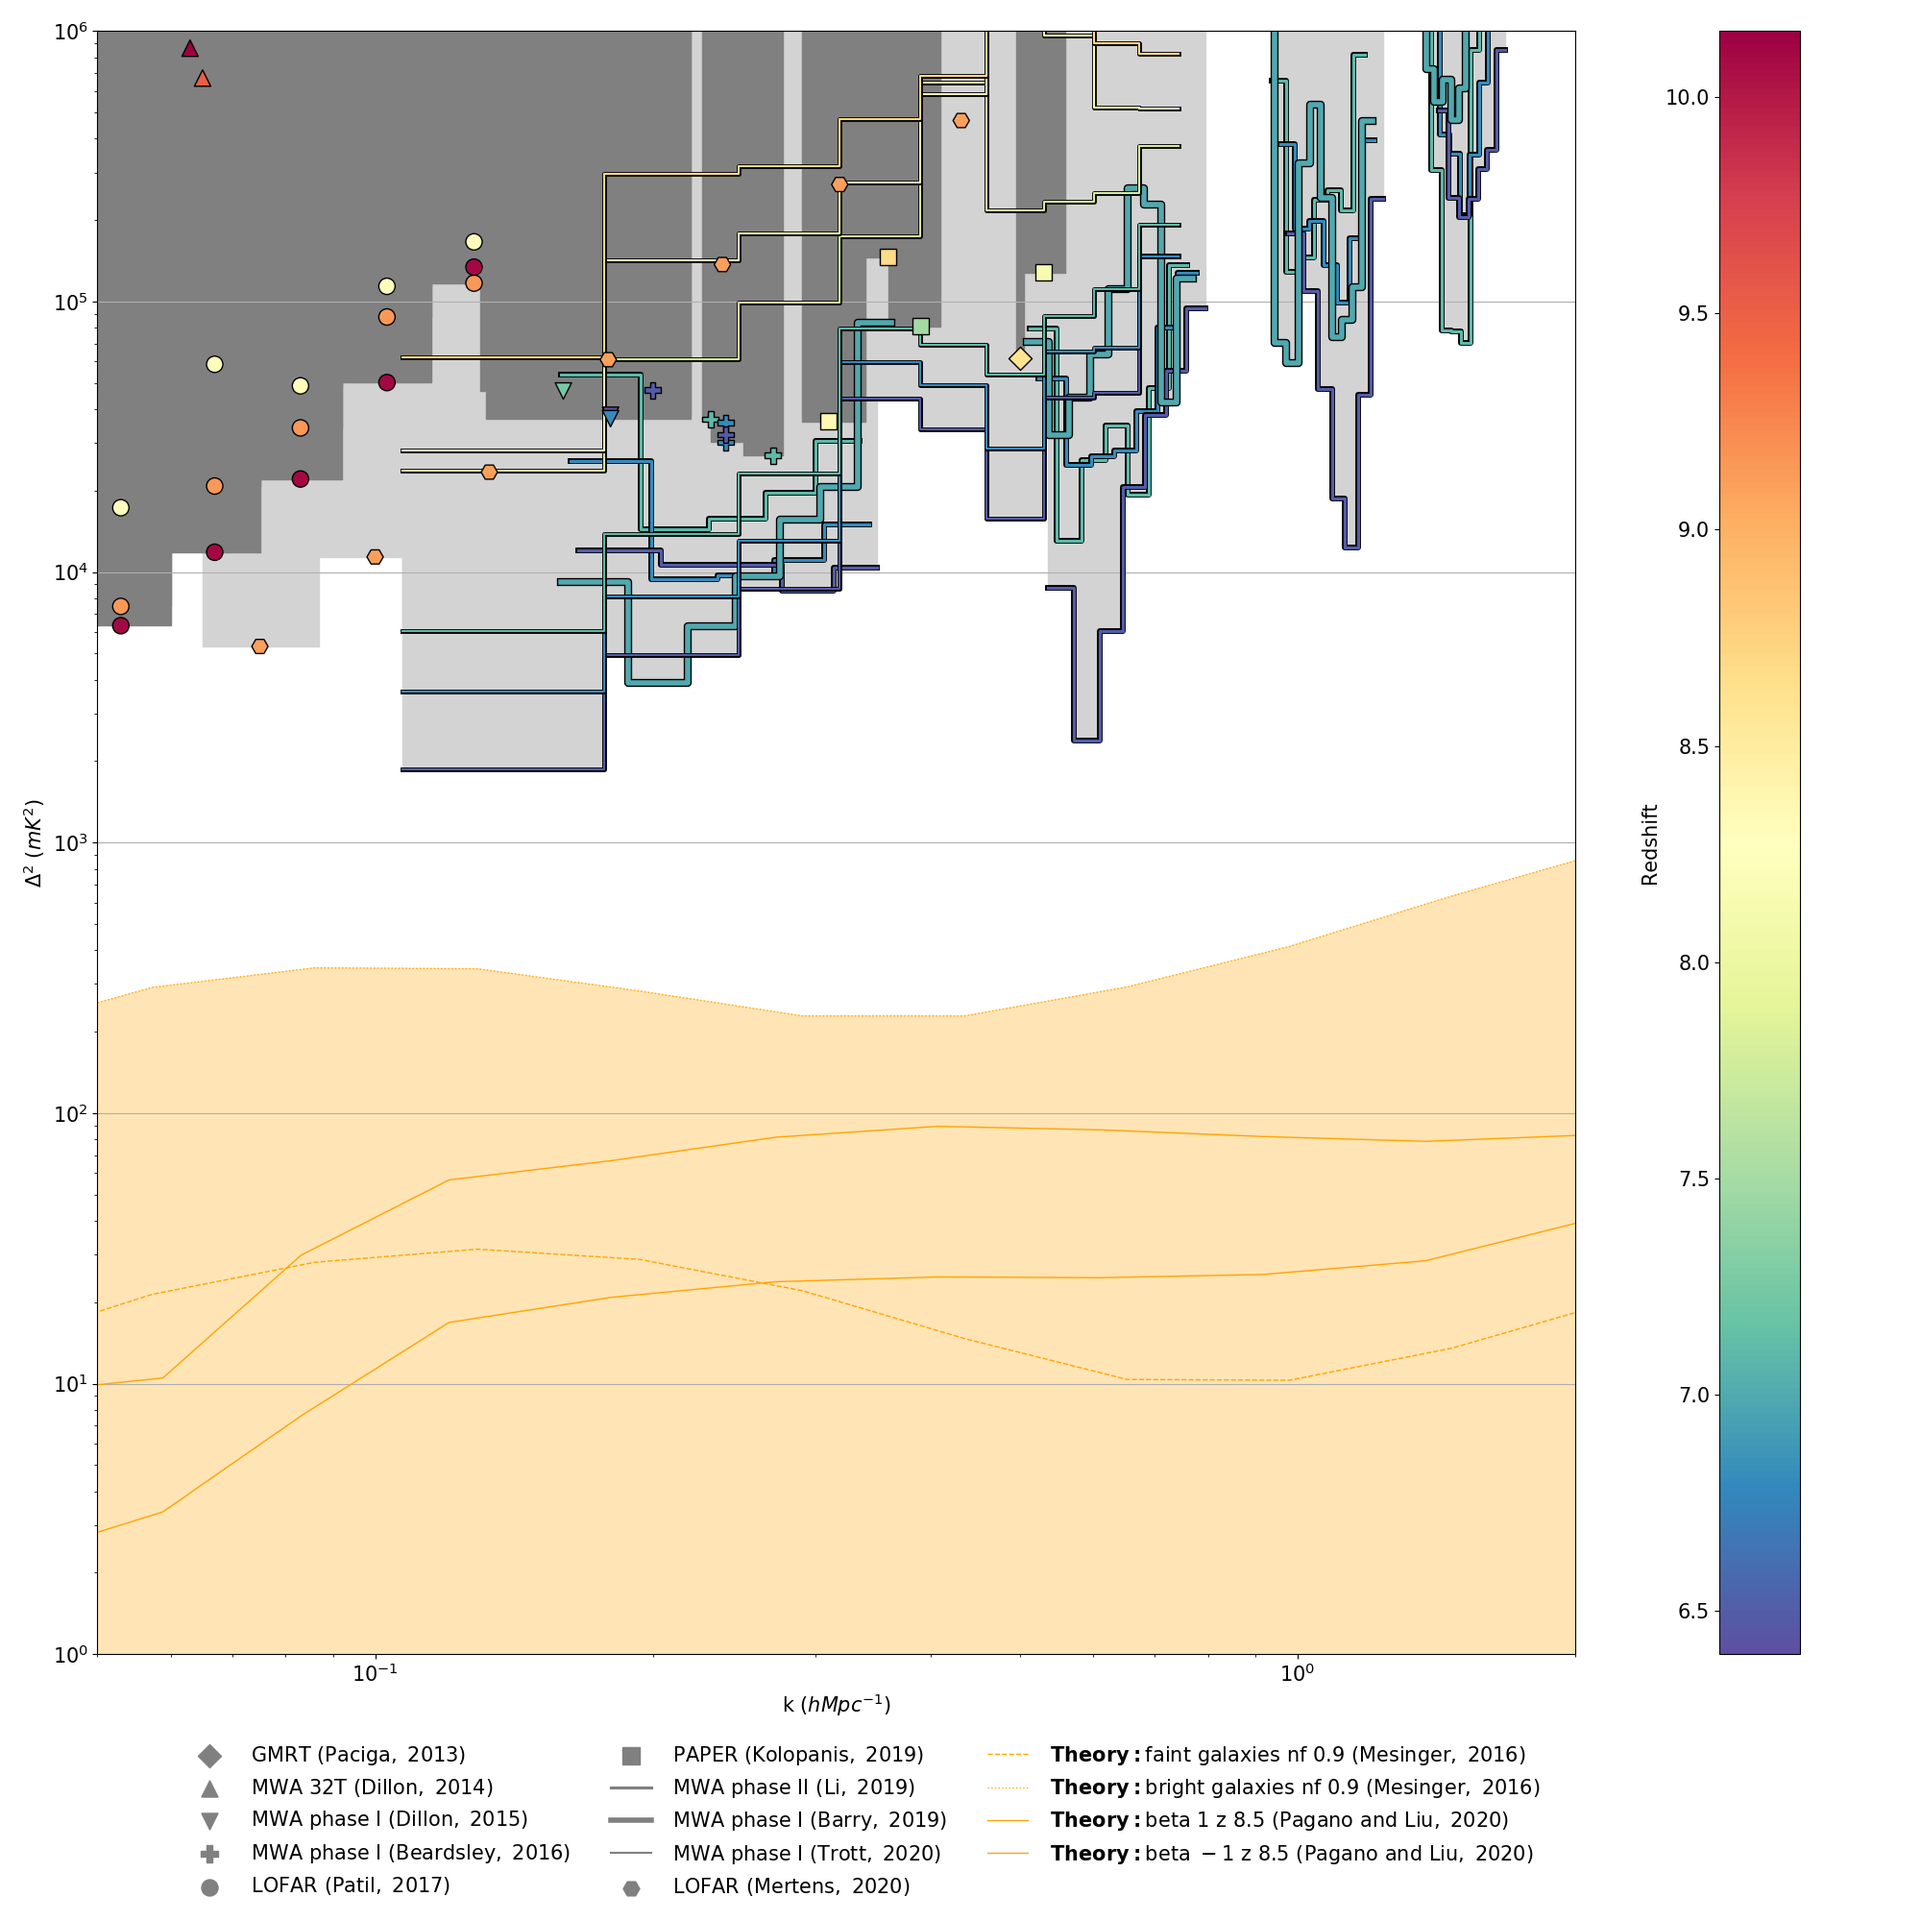
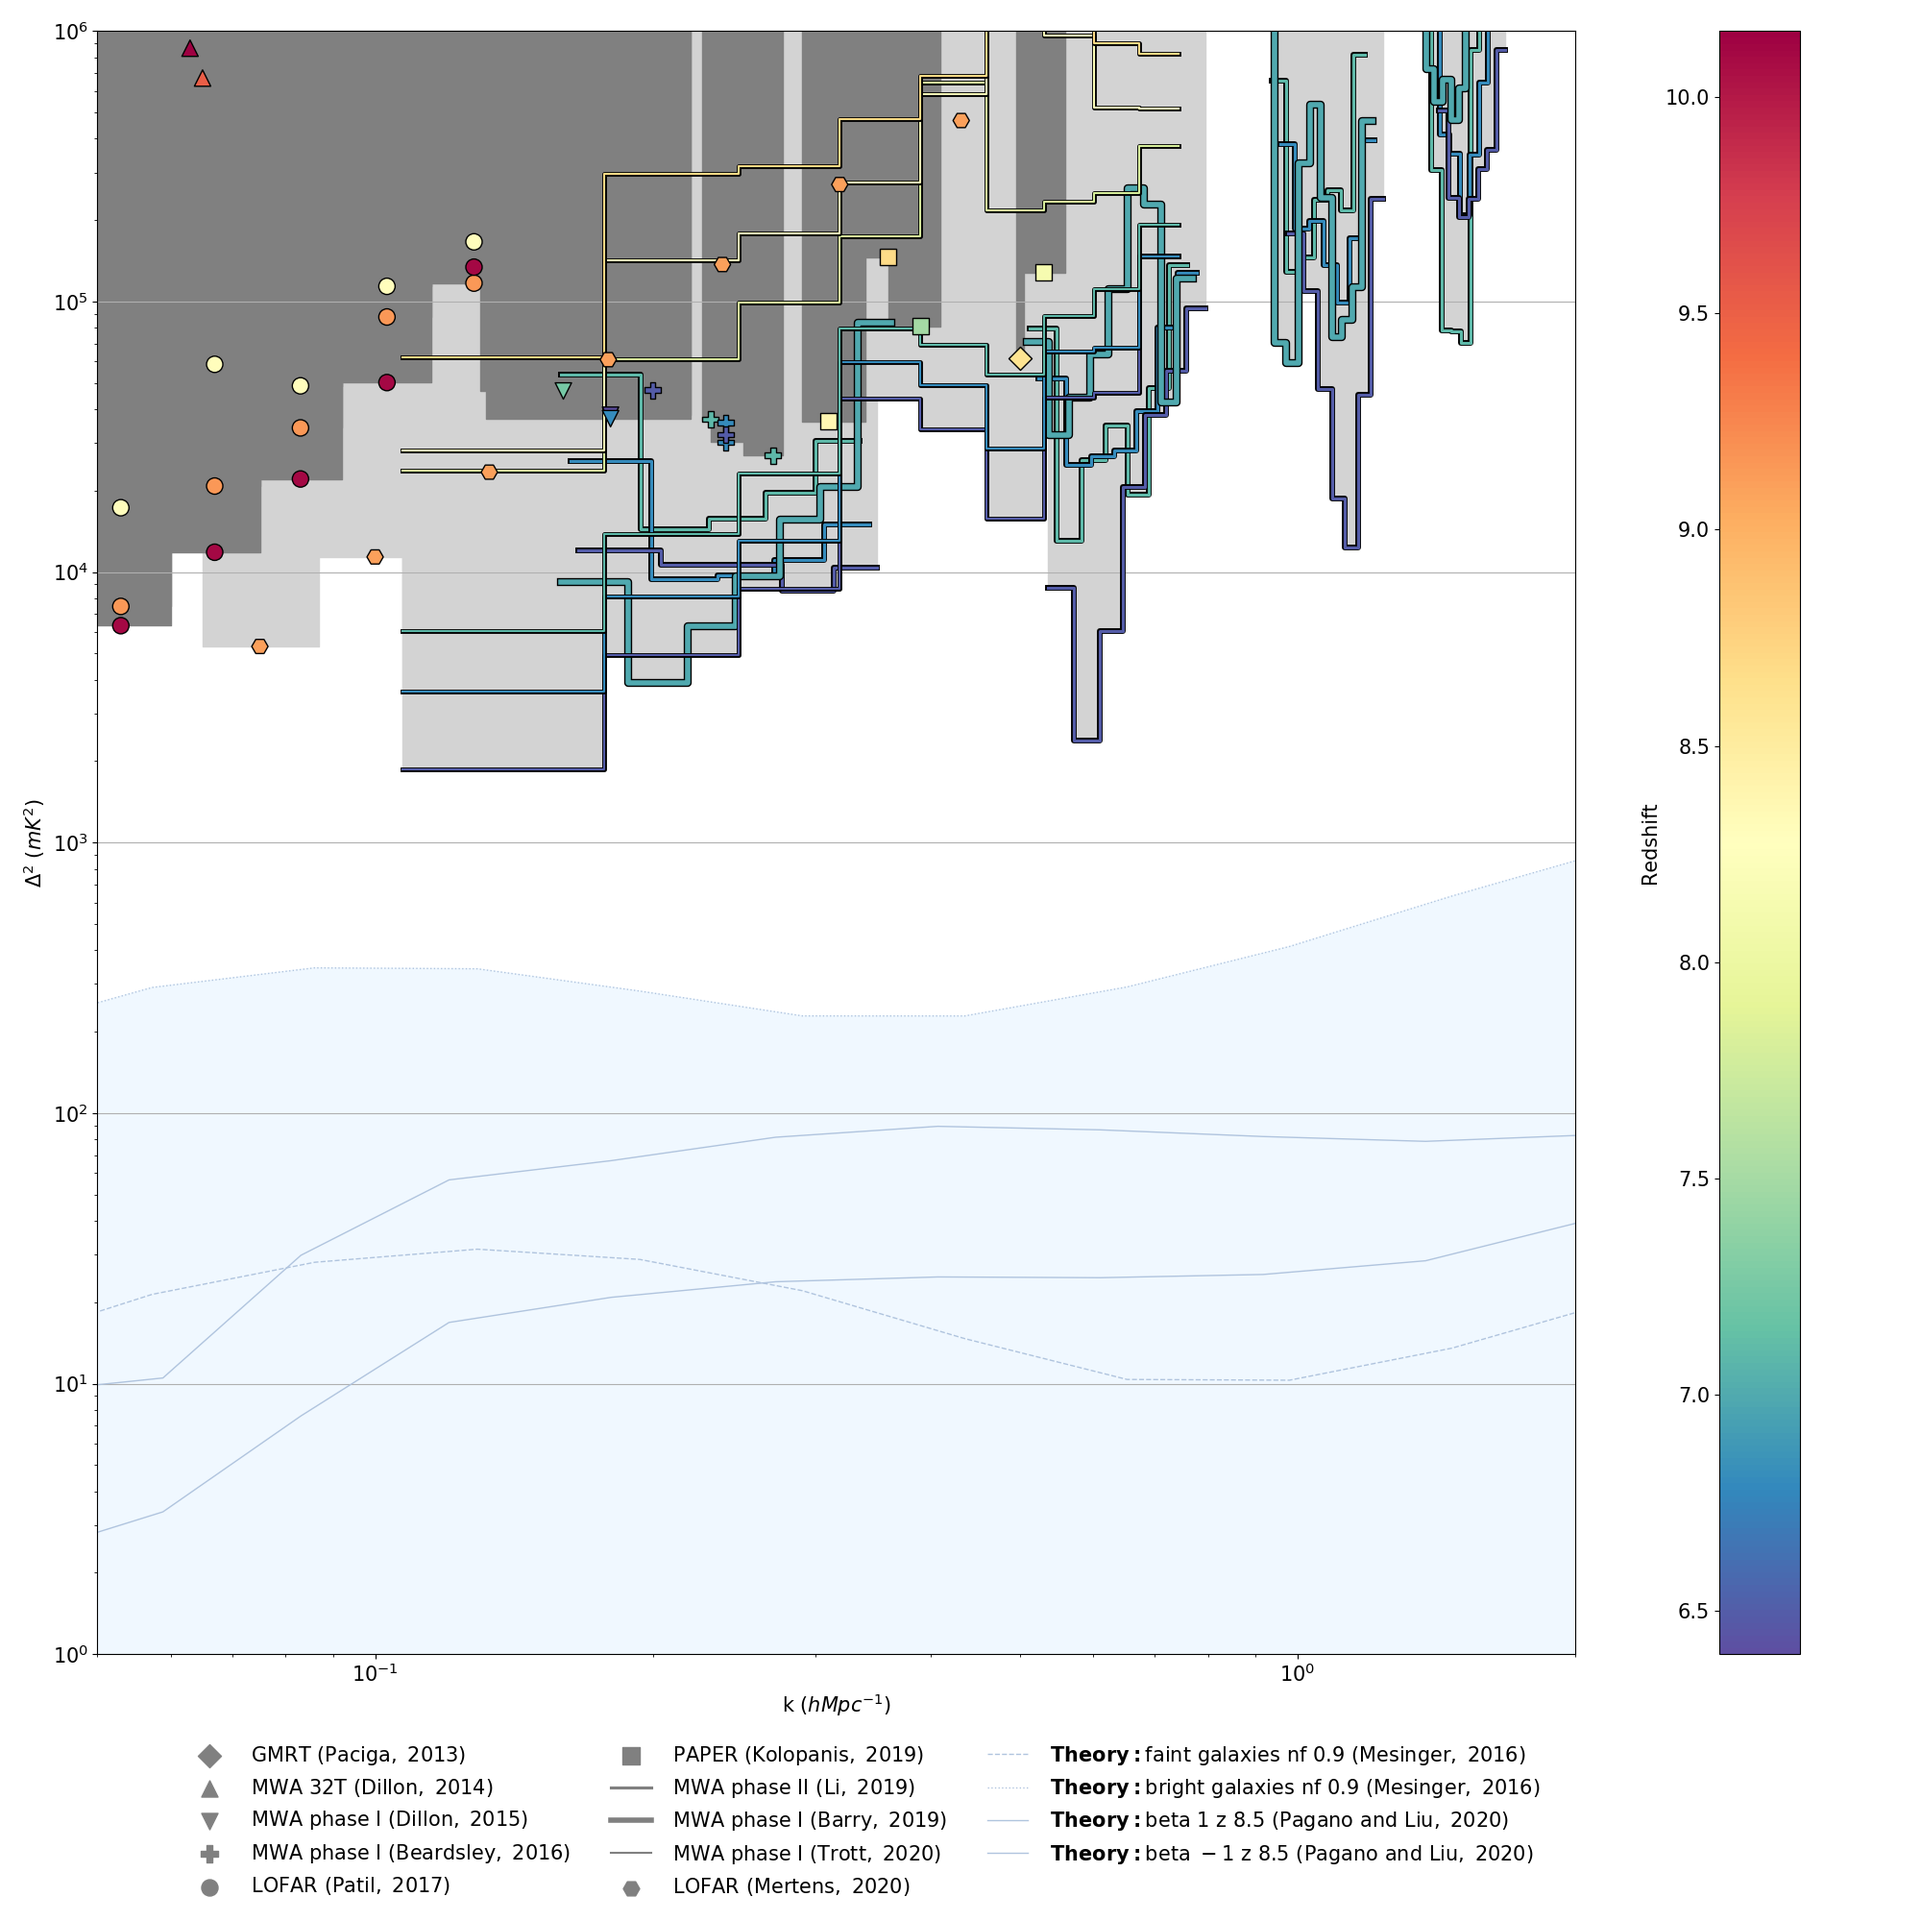
better colors for theory

Changed region(s): [[0.031, 0.434, 0.837, 0.868]]

diff --git a/eor_limits/plot_eor_limits.py b/eor_limits/plot_eor_limits.py
@@ -490,18 +490,18 @@ def make_plot(
             (line,) = plt.plot(
                 k_vals,
                 delta_squared,
-                c="orange",
+                c="lightsteelblue",
                 linewidth=paper["linewidth"],
                 linestyle=paper["linestyle"],
                 zorder=2,
             )
             if shade_theory is not False:
                 if shade_theory == "flat":
-                    color_use = "moccasin"
+                    color_use = "aliceblue"
                     zorder = 0
                     alpha = 1
                 else:
-                    color_use = "darkorange"
+                    color_use = "lightsteelblue"
                     zorder = 0
                     alpha = 1.0 / len(theory_paper_list)
                 plt.fill_between(
